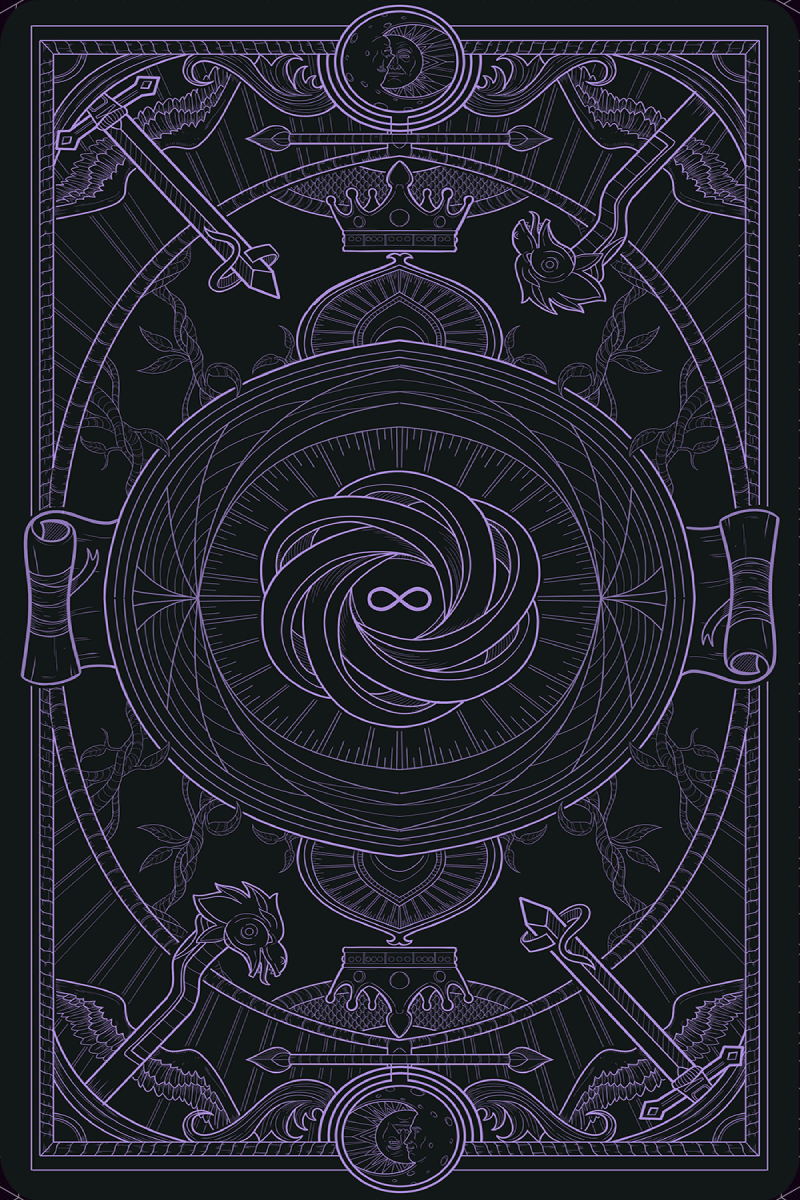
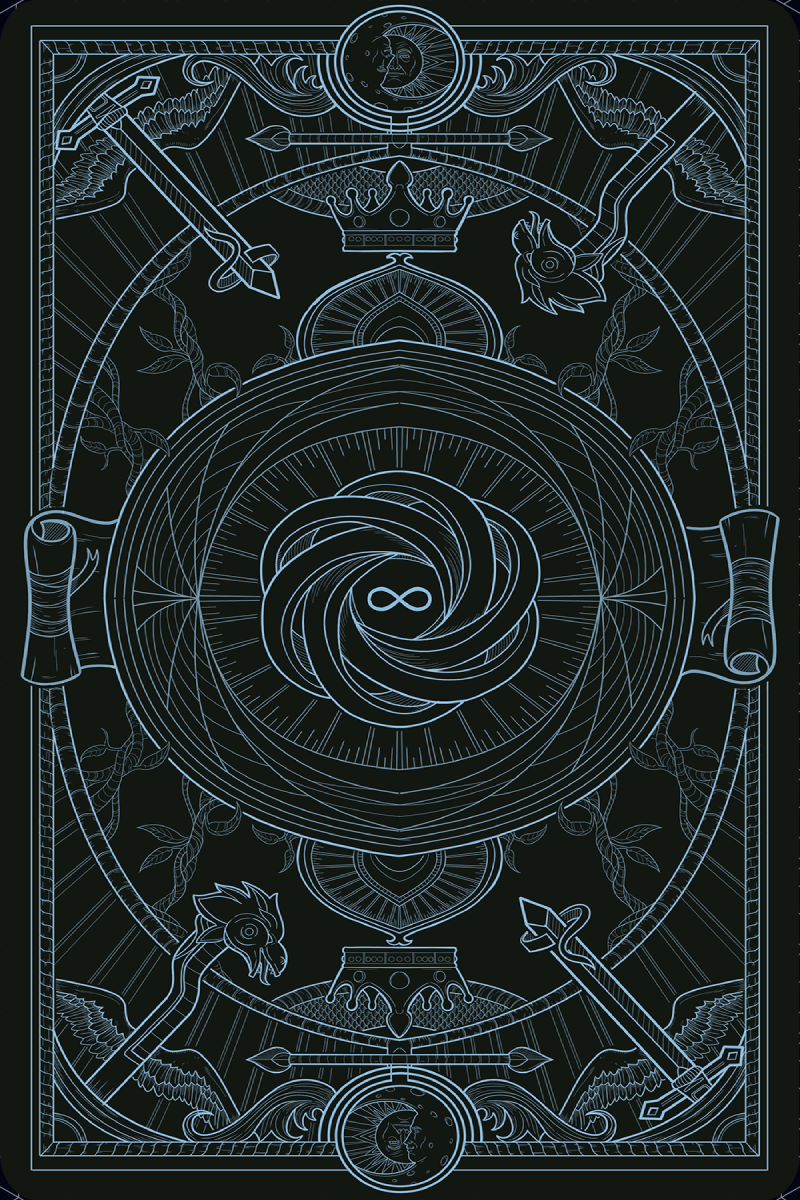
Stykle fix and image optimized

diff --git a/src/app/components/card/card.component.scss b/src/app/components/card/card.component.scss
@@ -12,13 +12,14 @@
     cursor: pointer;
     position: relative;
     transform-style: preserve-3d;
-    border: 5px solid #b793d2;
+    border: 5px solid #41b2cc;
+    
 }
 
 .cardText {
     position: absolute;
     text-align: center;
-    background: #392548c7;
+    background: #346079c7;
     width: 100%;
     bottom: 40px;
     padding: 10px 0;
@@ -31,20 +32,18 @@
     position: absolute;
     width: 100%;
     height: 100%;
-    border-radius: inherit;
     backface-visibility: hidden;
 
     > img {
         width: 100%;
         height: 100%;
         object-fit: contain;
-        border-radius: inherit;
     }
 }
 
 .front {
     transform: rotateY(180deg);
-    background: #503961;
+    background: #b2f1ff;
 }
 
 .cardNumber {
